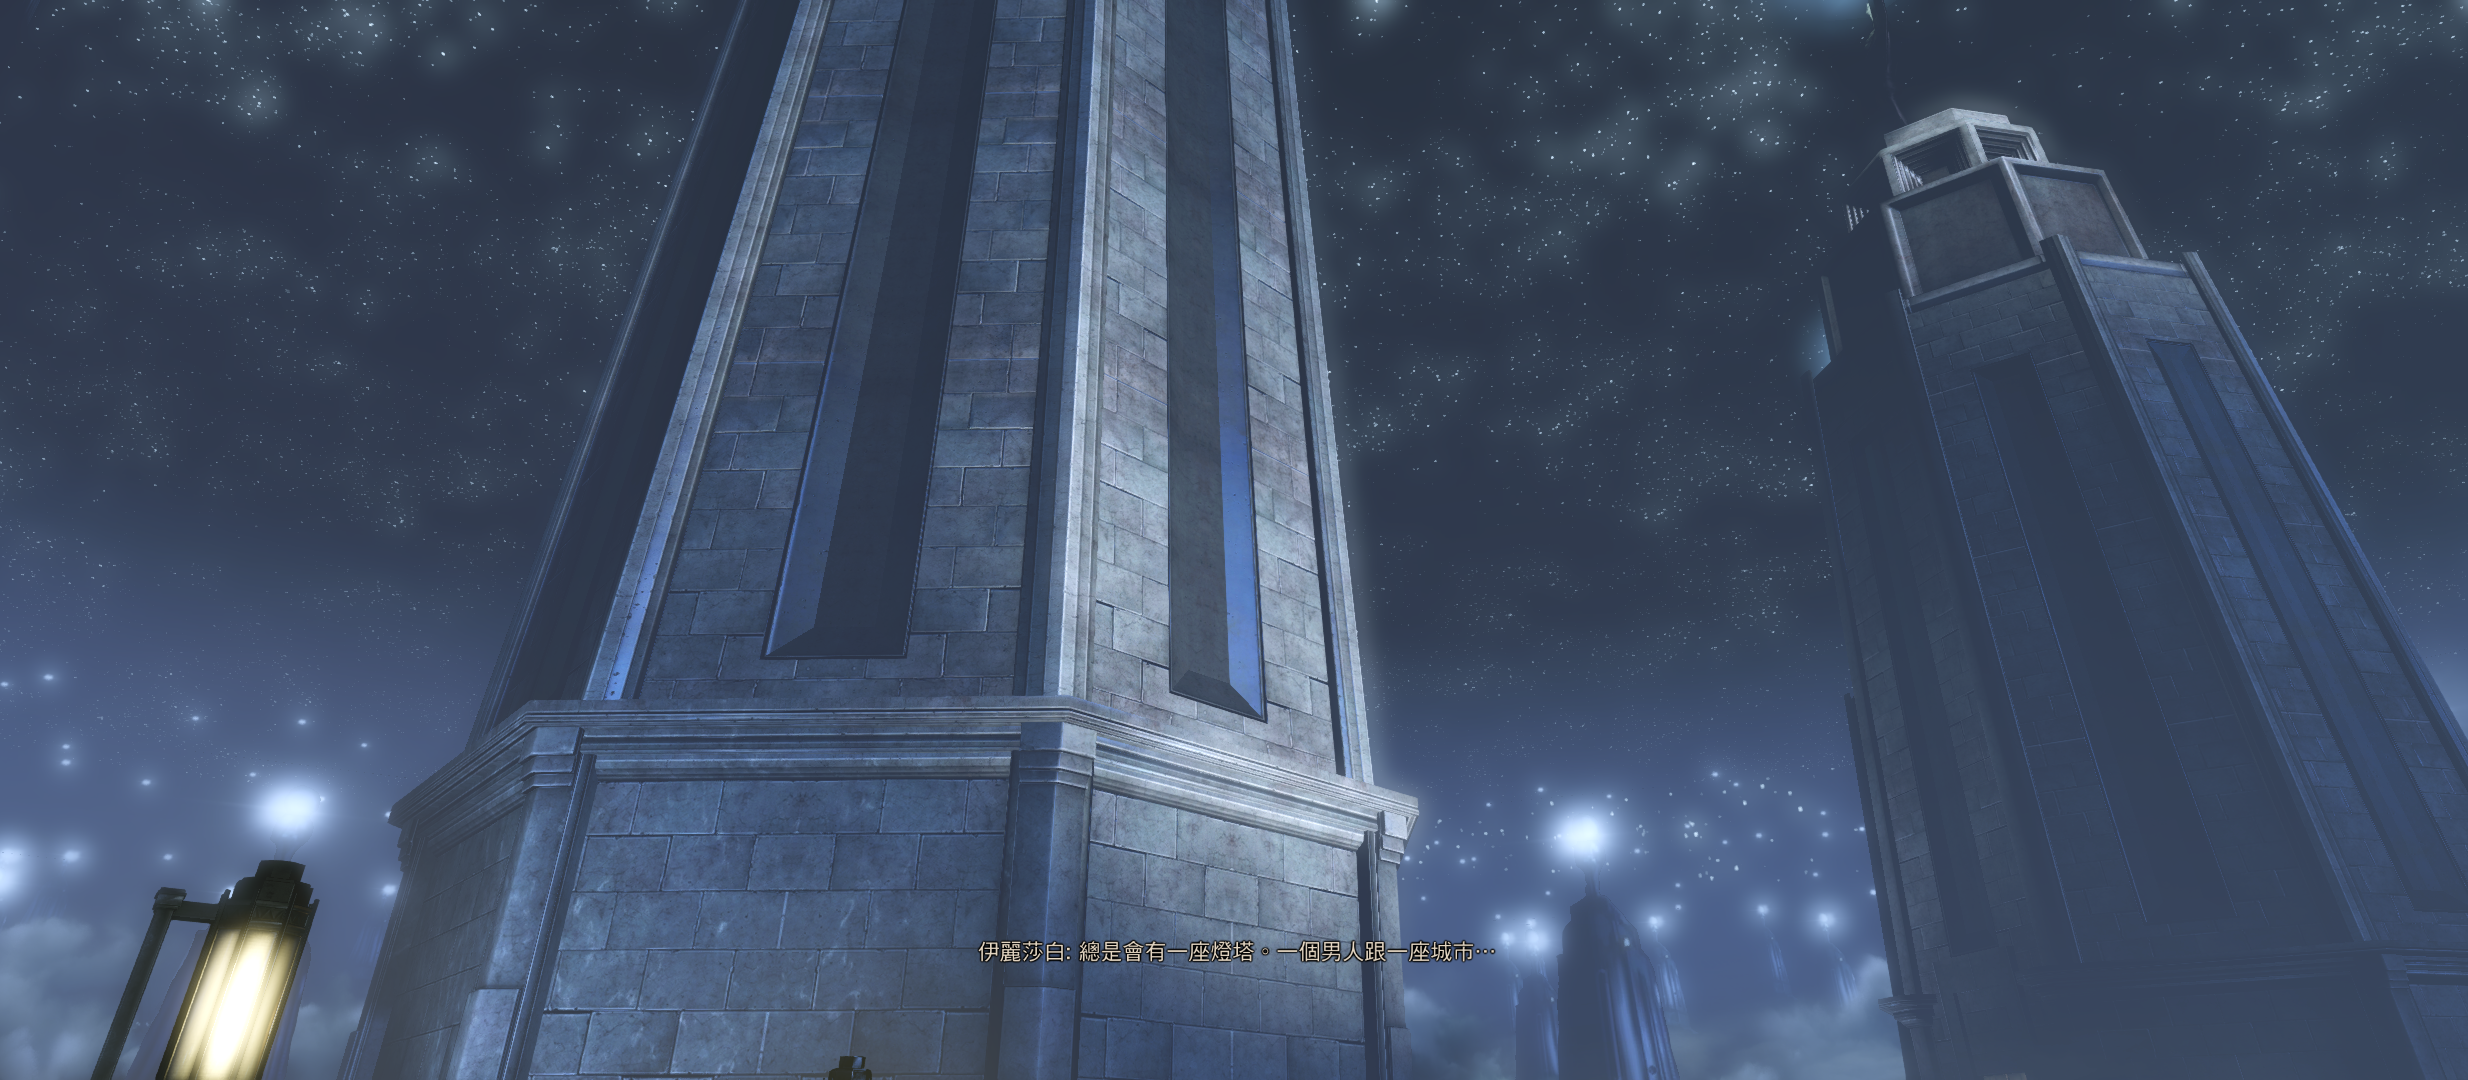
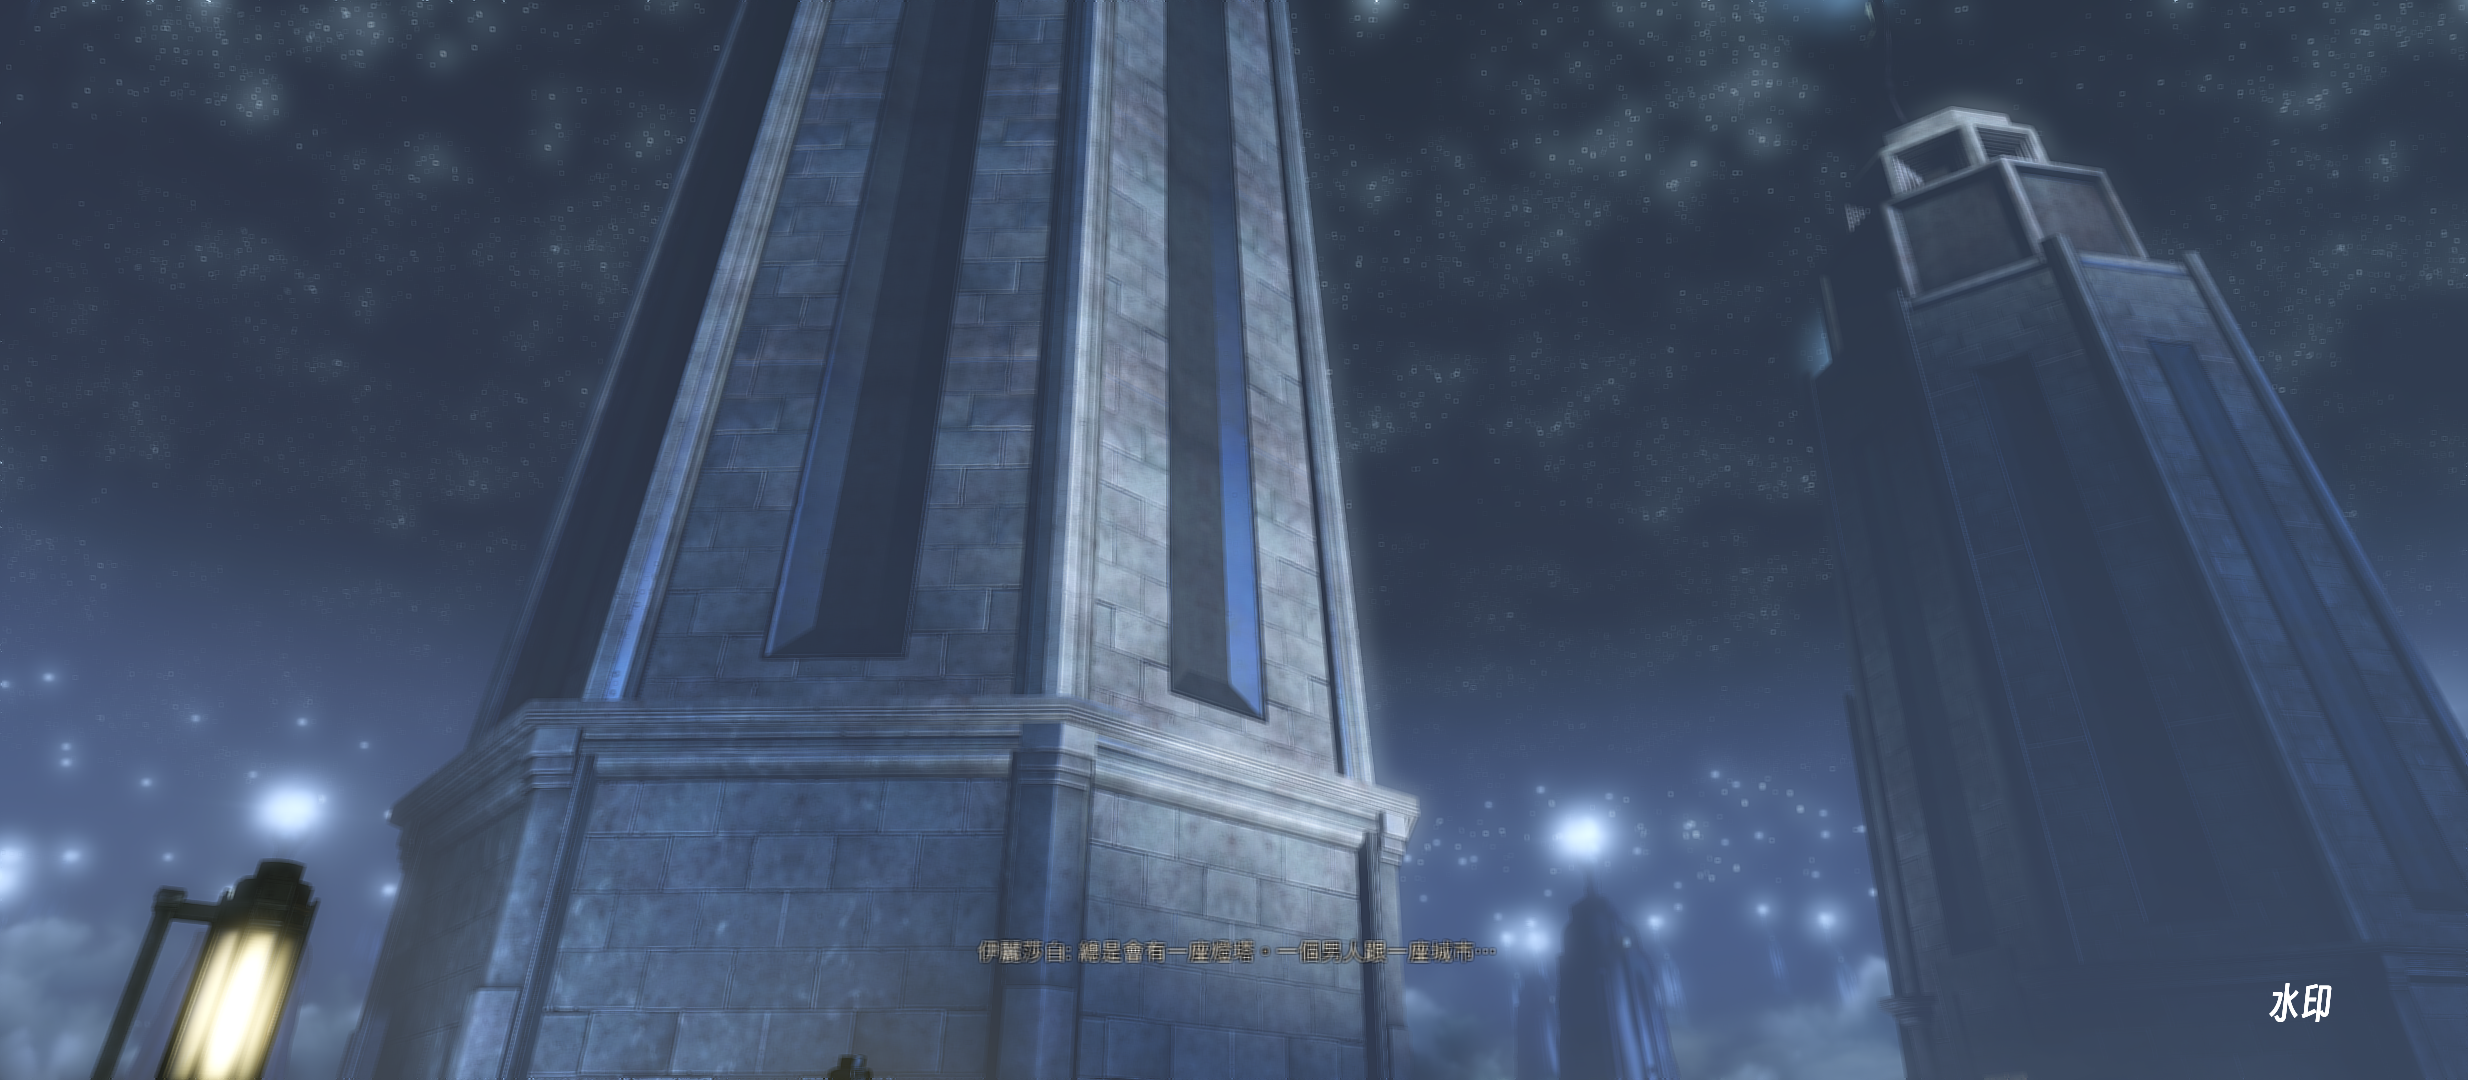
0508

diff --git a/app/admin/views.py b/app/admin/views.py
@@ -13,6 +13,7 @@ from extension.json_response_ext import JsonResponse
 from extension.auth.jwt_auth import AdminJwtAuthentication
 
 # from extension.jwt_token_ext import JwtToken
+from extension.cache.cache import CacheDecorator
 from extension.permission_ext import IsAuthPermission
 from util.password_util import PasswordUtil
 from util.verification_code_util import create_random_code
@@ -20,6 +21,8 @@ from util.jwt_token_util import JwtTokenUtil
 
 from .serializers import AdminLoginSerializer
 from .serializers import UserSerializer, PhotoSerializer, AlbumSerializer
+from app.comment.serializers import CommentSerializer
+from app.comment.models import Comment
 
 
 # 管理员登录
@@ -66,6 +69,7 @@ class GetAdminInfoView(generics.GenericAPIView):
     authentication_classes = [AdminJwtAuthentication]
     permission_classes = [IsAuthPermission]
 
+    @CacheDecorator("r")
     def get(self, request):
         res = JsonResponse()
         user = request.user
@@ -88,6 +92,7 @@ class GetUserListView(generics.GenericAPIView):
     permission_classes = [IsAuthPermission]
     serializer_class = UserSerializer
 
+    @CacheDecorator("r")
     def get(self, request):
         res = JsonResponse()
         users = User.objects.all()
@@ -106,6 +111,7 @@ class DeleteUserView(generics.GenericAPIView):
     authentication_classes = [AdminJwtAuthentication]
     permission_classes = [IsAuthPermission]
 
+    @CacheDecorator("w")
     def get(self, request):
         res = JsonResponse()
         pk = request.query_params.get("id")
@@ -118,12 +124,33 @@ class DeleteUserView(generics.GenericAPIView):
         return res.data
 
 
+# 冻结/解冻用户
+class FreezeUserView(generics.GenericAPIView):
+    authentication_classes = [AdminJwtAuthentication]
+    permission_classes = [IsAuthPermission]
+
+    @CacheDecorator("w")
+    def get(self, request):
+        res = JsonResponse()
+        pk = request.query_params.get("id")
+        queryset = User.objects.filter(id=pk)
+        if queryset.exists():
+            user = queryset.first()
+            user.is_freeze = not user.is_freeze
+            user.save()
+            res.update(msg="操作成功")
+            return res.data
+        res.update(msg="操作失败", code=2)
+        return res.data
+
+
 # 获取照片列表
 class GetPhotoListView(generics.GenericAPIView):
     authentication_classes = [AdminJwtAuthentication]
     permission_classes = [IsAuthPermission]
     serializer_class = PhotoSerializer
 
+    @CacheDecorator("r")
     def get(self, request):
         res = JsonResponse()
         photos = Photo.objects.all()
@@ -133,5 +160,43 @@ class GetPhotoListView(generics.GenericAPIView):
             serializer = self.get_serializer(page, many=True)
             return self.get_paginated_response(serializer.data)
         serializer = PhotoSerializer(photos, many=True)
+        res.update(data=serializer.data)
+        return res.data
+
+
+# 删除照片
+class DeletePhotoView(generics.GenericAPIView):
+    authentication_classes = [AdminJwtAuthentication]
+    permission_classes = [IsAuthPermission]
+
+    @CacheDecorator("w")
+    def get(self, request):
+        res = JsonResponse()
+        pk = request.query_params.get("id")
+        queryset = Photo.objects.filter(id=pk)
+        if queryset.exists():
+            queryset.delete()
+            res.update(msg="删除成功")
+            return res.data
+        res.update(msg="删除失败", code=2)
+        return res.data
+
+
+# 获取评论列表
+class GetCommentListView(generics.GenericAPIView):
+    authentication_classes = [AdminJwtAuthentication]
+    permission_classes = [IsAuthPermission]
+    serializer_class = CommentSerializer
+
+    @CacheDecorator("r")
+    def get(self, request):
+        res = JsonResponse()
+        comments = Comment.objects.all()
+        # 分页
+        page = self.paginate_queryset(comments)
+        if page is not None:
+            serializer = self.get_serializer(page, many=True)
+            return self.get_paginated_response(serializer.data)
+        serializer = CommentSerializer(comments, many=True)
         res.update(data=serializer.data)
         return res.data

diff --git a/app/photo/views.py b/app/photo/views.py
@@ -1,5 +1,6 @@
 import os
-
+from django.conf import settings
+from pathlib import Path
 from django.db.models import F
 from rest_framework import generics, views
 
@@ -10,6 +11,7 @@ from extension.json_response_ext import JsonResponse
 from extension.permission_ext import IsAuthPermission
 
 from app.photo.serializers import PhotoSerializer
+from PIL import Image, ImageFilter, ImageFont, ImageDraw
 
 
 # 获取用户所有图片
@@ -165,6 +167,26 @@ class UploadPhotoInfoView(generics.CreateAPIView):
         album_id = request.data.get("album_id")
         is_public = request.data.get("is_public")
         url = request.data.get("url")
+        is_watermark = request.data.get("is_watermark")
+        # 添加水印
+        if is_watermark:
+            img_path = f"{settings.BASE_DIR}{url}"
+            img = Image.open(img_path)
+            if img.mode != "RGBA":
+                img = img.convert("RGBA")
+            txt = Image.new("RGBA", img.size, (0, 0, 0, 0))
+            fnt = ImageFont.truetype(
+                f"{settings.BASE_DIR}/static/font/SmileySans-Oblique.ttf", 40
+            )
+            d = ImageDraw.Draw(txt)
+            d.text(
+                (img.size[0] - 200, img.size[1] - 100),
+                request.user.username,
+                font=fnt,
+                fill=(255, 255, 255, 255),
+            )
+            out = Image.alpha_composite(img, txt)
+            out.save(img_path)
         queryset = Photo.objects.filter(author=user, name=name)
         if queryset.exists():
             res.update(code=2, msg="照片已存在")

diff --git a/app/user/views.py b/app/user/views.py
@@ -30,17 +30,15 @@ class UserLoginView(generics.GenericAPIView):
         username = serializer.validated_data["username"]
         password = serializer.validated_data["password"]
 
-        # code = serializer.validated_data["code"]
-        # if not code == caches["default"].get("captcha"):
-        #     res.update(msg="验证码错误", code=2)
-        #     return res.data
-
         user = User.objects.filter(username=username).first()
         if not user:
             res.update(msg="用户不存在", code=2)
             return res.data
 
-        # if not user.password == password:
+        if user.is_freeze:
+            res.update(msg="用户已被冻结", code=2)
+            return res.data
+
         if not PasswordUtil.verify(PasswordUtil(), password, user.password):
             res.update(msg="密码错误", code=2)
             return res.data

diff --git a/app/admin/urls.py b/app/admin/urls.py
@@ -6,6 +6,9 @@ from .views import (
     GetUserListView,
     DeleteUserView,
     GetPhotoListView,
+    DeletePhotoView,
+    FreezeUserView,
+    GetCommentListView,
 )
 
 urlpatterns = [
@@ -14,4 +17,7 @@ urlpatterns = [
     path("user/list", GetUserListView.as_view()),
     path("user/delete", DeleteUserView.as_view()),
     path("photo/list", GetPhotoListView.as_view()),
+    path("photo/delete", DeletePhotoView.as_view()),
+    path("user/freeze", FreezeUserView.as_view()),
+    path("comment/list", GetCommentListView.as_view()),
 ]
